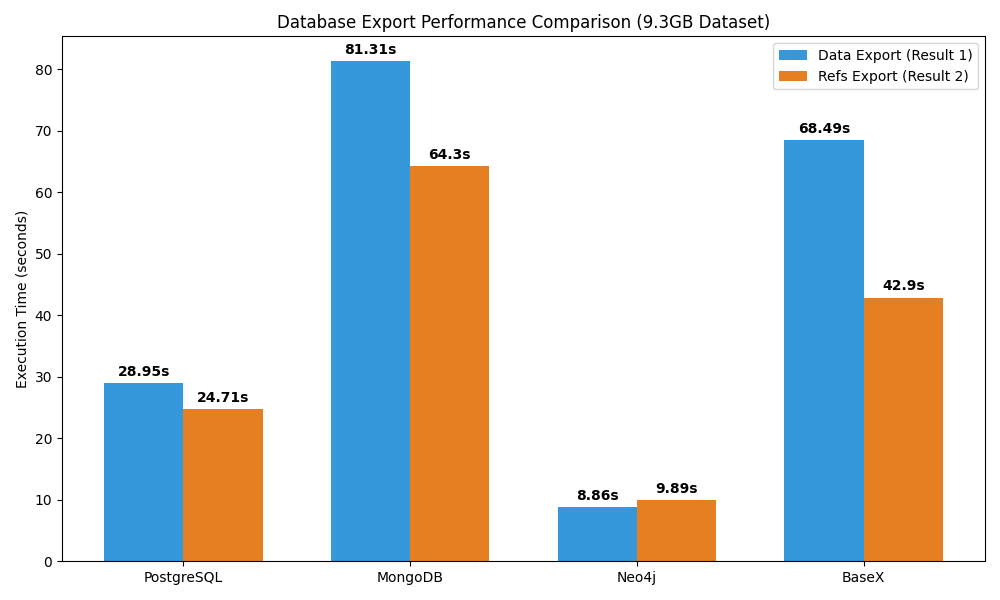
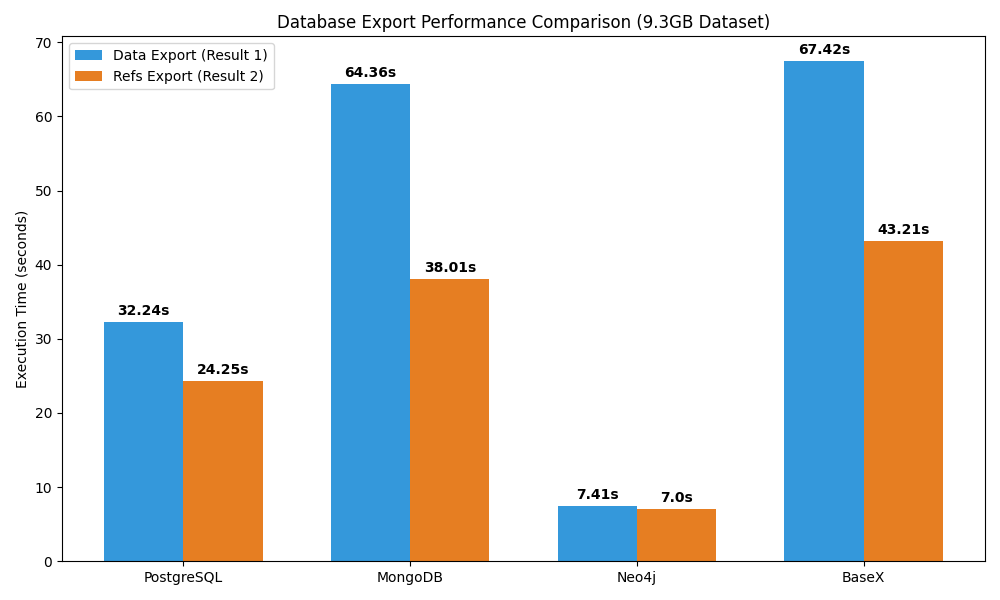
refactor mongodb

diff --git a/mongodb/export-data.py b/mongodb/export-data.py
@@ -1,9 +1,10 @@
+import time
 from pymongo import MongoClient
 
 # --- CONFIGURATION ---
 MONGO_URI = "mongodb://localhost:27017/"
 DB_NAME = "litcovid_json"
-COLLECTION_NAME = "bio_c_json"
+COLLECTION_NAME = "bio_c_json" 
 OUTPUT_FILE = "mongo_result1.txt"
 
 def export_mongodb_data():
@@ -11,45 +12,75 @@ def export_mongodb_data():
     db = client[DB_NAME]
     col = db[COLLECTION_NAME]
 
-    print(f"Exporting Result 1 to {OUTPUT_FILE}...")
+    print(f"🚀 Starting optimized data export (PMID/Title/Abstract) to {OUTPUT_FILE}...")
+    start_time = time.perf_counter()
 
-    # We only project the 'passages' field to save bandwidth and RAM
-    cursor = col.find({}, {"passages": 1})
+    # The Pipeline logic:
+    # 1. Match docs with PMID (using your index)
+    # 2. Unwind passages to treat each block individually
+    # 3. Group by the original document ID to rebuild the specific strings we need
+    pipeline = [
+        {"$match": {"passages.infons.article-id_pmid": {"$exists": True}}},
+        {"$unwind": "$passages"},
+        {"$group": {
+            "_id": "$_id",
+            # Get the source PMID (the first non-null found in any passage)
+            "pmid": {"$max": "$passages.infons.article-id_pmid"},
+            # Grab the title if the section_type is TITLE
+            "title": {
+                "$max": {
+                    "$cond": [
+                        {"$eq": ["$passages.infons.section_type", "TITLE"]}, 
+                        "$passages.text", 
+                        ""
+                    ]
+                }
+            },
+            # Push all abstract text blocks into an array
+            "abstract_parts": {
+                "$push": {
+                    "$cond": [
+                        {"$eq": ["$passages.infons.section_type", "ABSTRACT"]}, 
+                        "$passages.text", 
+                        None
+                    ]
+                }
+            }
+        }},
+        # Filter out documents that somehow ended up without a PMID
+        {"$match": {"pmid": {"$ne": None}}}
+    ]
 
-    with open(OUTPUT_FILE, "w", encoding="utf-8") as f:
+    try:
+        cursor = col.aggregate(pipeline, allowDiskUse=True)
         count = 0
-        for doc in cursor:
-            pmid = None
-            title = ""
-            abstract_parts = []
-            
-            passages = doc.get("passages", [])
-            for p in passages:
-                infons = p.get("infons", {})
+        
+        with open(OUTPUT_FILE, "w", encoding="utf-8") as f:
+            for doc in cursor:
+                pmid = doc.get('pmid')
+                title = doc.get('title', "").strip()
                 
-                # Extract PMID
-                if not pmid:
-                    pmid = infons.get("article-id_pmid")
+                # Filter out None values and join the abstract parts
+                abstracts = [a for a in doc.get('abstract_parts', []) if a]
+                full_abstract = " ".join(abstracts).strip()
                 
-                # Extract Title
-                if infons.get("section_type") == "TITLE" or infons.get("type") == "title":
-                    title = p.get("text", "")
+                # Clean up internal newlines to keep the "one line per article" format
+                line = f"{pmid}/{title} {full_abstract}"
+                cleaned_line = " ".join(line.splitlines())
                 
-                # Extract Abstract
-                if infons.get("section_type") == "ABSTRACT" or infons.get("type") == "abstract":
-                    abstract_parts.append(p.get("text", ""))
+                f.write(cleaned_line + "\n")
+                count += 1
+                
+                if count % 10000 == 0 and count > 0:
+                    print(f"📦 Exported {count} data rows...")
 
-            if pmid:
-                full_abstract = " ".join(abstract_parts)
-                # Format: PMID/Title Abstract
-                f.write(f"{pmid}/{title} {full_abstract}\n")
-                
-            count += 1
-            if count % 10000 == 0:
-                print(f"Processed {count} documents...")
+        duration = time.perf_counter() - start_time
+        print(f"✅ SUCCESS: Exported {count} lines in {duration:.2f} seconds.")
 
-    print(f"SUCCESS: Exported {count} lines to {OUTPUT_FILE}")
-    client.close()
+    except Exception as e:
+        print(f"❌ ERROR: {e}")
+    finally:
+        client.close()
 
 if __name__ == "__main__":
     export_mongodb_data()

diff --git a/mongodb/export-refs.py b/mongodb/export-refs.py
@@ -1,50 +1,77 @@
+import time
 from pymongo import MongoClient
 
 # --- CONFIGURATION ---
 MONGO_URI = "mongodb://localhost:27017/"
 DB_NAME = "litcovid_json"
-COLLECTION_NAME = "bio_c_json"
+# ATTENTION : Vérifiez si votre collection s'appelle 'litcovid' ou 'bio_c_json'
+COLLECTION_NAME = "bio_c_json" 
 OUTPUT_FILE = "./mongo-refs.txt"
 
-def export_refs():
+def export_mongo_refs():
     client = MongoClient(MONGO_URI)
     db = client[DB_NAME]
     col = db[COLLECTION_NAME]
 
-    print(f"Generating {OUTPUT_FILE} from MongoDB...")
+    start_time = time.perf_counter()
 
-    with open(OUTPUT_FILE, "w", encoding="utf-8") as f:
-        cursor = col.find({}, {"passages": 1})
+    # Pipeline complète pour extraire les PMIDs sources et les références
+    pipeline = [
+        # 1. On filtre les docs qui ont un PMID (Utilise votre INDEX)
+        {"$match": {"passages.infons.article-id_pmid": {"$exists": True}}},
+        
+        # 2. On transforme chaque passage en un document séparé
+        {"$unwind": "$passages"},
+        
+        # 3. On projette les infos utiles pour simplifier le groupement
+        {"$project": {
+            "source_pmid": "$passages.infons.article-id_pmid",
+            "is_ref": {"$eq": ["$passages.infons.section_type", "REF"]},
+            "ref_pmid": "$passages.infons.pub-id_pmid"
+        }},
+        
+        # 4. On groupe par l'ID technique de l'article (_id)
+        {"$group": {
+            "_id": "$_id",
+            # On récupère le PMID source (le premier non nul trouvé)
+            "source": {"$max": "$source_pmid"},
+            # On accumule les PMIDs de références uniquement si section_type == 'REF'
+            "refs": {
+                "$push": {
+                    "$cond": [{"$eq": ["$is_ref", True]}, "$ref_pmid", None]
+                }
+            }
+        }},
+        
+        # 5. On ne garde que les articles qui ont au moins une référence
+        {"$match": {"source": {"$ne": None}}}
+    ]
+
+    try:
+        cursor = col.aggregate(pipeline, allowDiskUse=True)
         count = 0
+        
+        with open(OUTPUT_FILE, "w", encoding="utf-8") as f:
+            for doc in cursor:
+                source = doc.get('source')
+                # Nettoyage de la liste des références (enlève les None et doublons)
+                raw_refs = doc.get('refs', [])
+                clean_refs = sorted(list(set([str(r) for r in raw_refs if r])))
 
-        for doc in cursor:
-            source_pmid = None
-            references = []
-
-            for passage in doc.get("passages", []):
-                infons = passage.get("infons", {})
+                if source and clean_refs:
+                    f.write(f"{source}/{'/'.join(clean_refs)}\n")
+                    count += 1
                 
-                # Identify the Source PMID
-                if not source_pmid:
-                    source_pmid = infons.get("article-id_pmid")
-                
-                # Identify References
-                if infons.get("section_type") == "REF":
-                    ref_id = infons.get("pub-id_pmid")
-                    if ref_id:
-                        references.append(ref_id)
+                if count % 5000 == 0 and count > 0:
+                    print(f"Lignes exportées : {count}...")
 
-            # Only write to file if we have a source and at least one reference
-            if source_pmid and references:
-                ref_string = "/".join(references)
-                f.write(f"{source_pmid}/{ref_string}\n")
-                
-                count += 1
-                if count % 10000 == 0:
-                    print(f"Exported {count} citation lines...")
+        duration = time.perf_counter() - start_time
+        print(f"SUCCÈS : {count} lignes exportées en {duration:.2f} secondes.")
 
-    print(f"SUCCESS: Exported {count} source-to-reference lines.")
-    client.close()
+    except Exception as e:
+        print(f"ERREUR : {e}")
+    finally:
+        client.close()
 
 if __name__ == "__main__":
-    export_refs()
+    export_mongo_refs()

diff --git a/mongodb/export-data-old.py b/mongodb/export-data-old.py
@@ -1,0 +1,55 @@
+from pymongo import MongoClient
+
+# --- CONFIGURATION ---
+MONGO_URI = "mongodb://localhost:27017/"
+DB_NAME = "litcovid_json"
+COLLECTION_NAME = "bio_c_json"
+OUTPUT_FILE = "mongo_result1.txt"
+
+def export_mongodb_data():
+    client = MongoClient(MONGO_URI)
+    db = client[DB_NAME]
+    col = db[COLLECTION_NAME]
+
+    print(f"Exporting Result 1 to {OUTPUT_FILE}...")
+
+    # We only project the 'passages' field to save bandwidth and RAM
+    cursor = col.find({}, {"passages": 1})
+
+    with open(OUTPUT_FILE, "w", encoding="utf-8") as f:
+        count = 0
+        for doc in cursor:
+            pmid = None
+            title = ""
+            abstract_parts = []
+            
+            passages = doc.get("passages", [])
+            for p in passages:
+                infons = p.get("infons", {})
+                
+                # Extract PMID
+                if not pmid:
+                    pmid = infons.get("article-id_pmid")
+                
+                # Extract Title
+                if infons.get("section_type") == "TITLE" or infons.get("type") == "title":
+                    title = p.get("text", "")
+                
+                # Extract Abstract
+                if infons.get("section_type") == "ABSTRACT" or infons.get("type") == "abstract":
+                    abstract_parts.append(p.get("text", ""))
+
+            if pmid:
+                full_abstract = " ".join(abstract_parts)
+                # Format: PMID/Title Abstract
+                f.write(f"{pmid}/{title} {full_abstract}\n")
+                
+            count += 1
+            if count % 10000 == 0:
+                print(f"Processed {count} documents...")
+
+    print(f"SUCCESS: Exported {count} lines to {OUTPUT_FILE}")
+    client.close()
+
+if __name__ == "__main__":
+    export_mongodb_data()

diff --git a/mongodb/export-refs-old.py b/mongodb/export-refs-old.py
@@ -1,0 +1,50 @@
+from pymongo import MongoClient
+
+# --- CONFIGURATION ---
+MONGO_URI = "mongodb://localhost:27017/"
+DB_NAME = "litcovid_json"
+COLLECTION_NAME = "bio_c_json"
+OUTPUT_FILE = "./mongo-refs.txt"
+
+def export_refs():
+    client = MongoClient(MONGO_URI)
+    db = client[DB_NAME]
+    col = db[COLLECTION_NAME]
+
+    print(f"Generating {OUTPUT_FILE} from MongoDB...")
+
+    with open(OUTPUT_FILE, "w", encoding="utf-8") as f:
+        cursor = col.find({}, {"passages": 1})
+        count = 0
+
+        for doc in cursor:
+            source_pmid = None
+            references = []
+
+            for passage in doc.get("passages", []):
+                infons = passage.get("infons", {})
+                
+                # Identify the Source PMID
+                if not source_pmid:
+                    source_pmid = infons.get("article-id_pmid")
+                
+                # Identify References
+                if infons.get("section_type") == "REF":
+                    ref_id = infons.get("pub-id_pmid")
+                    if ref_id:
+                        references.append(ref_id)
+
+            # Only write to file if we have a source and at least one reference
+            if source_pmid and references:
+                ref_string = "/".join(references)
+                f.write(f"{source_pmid}/{ref_string}\n")
+                
+                count += 1
+                if count % 10000 == 0:
+                    print(f"Exported {count} citation lines...")
+
+    print(f"SUCCESS: Exported {count} source-to-reference lines.")
+    client.close()
+
+if __name__ == "__main__":
+    export_refs()
